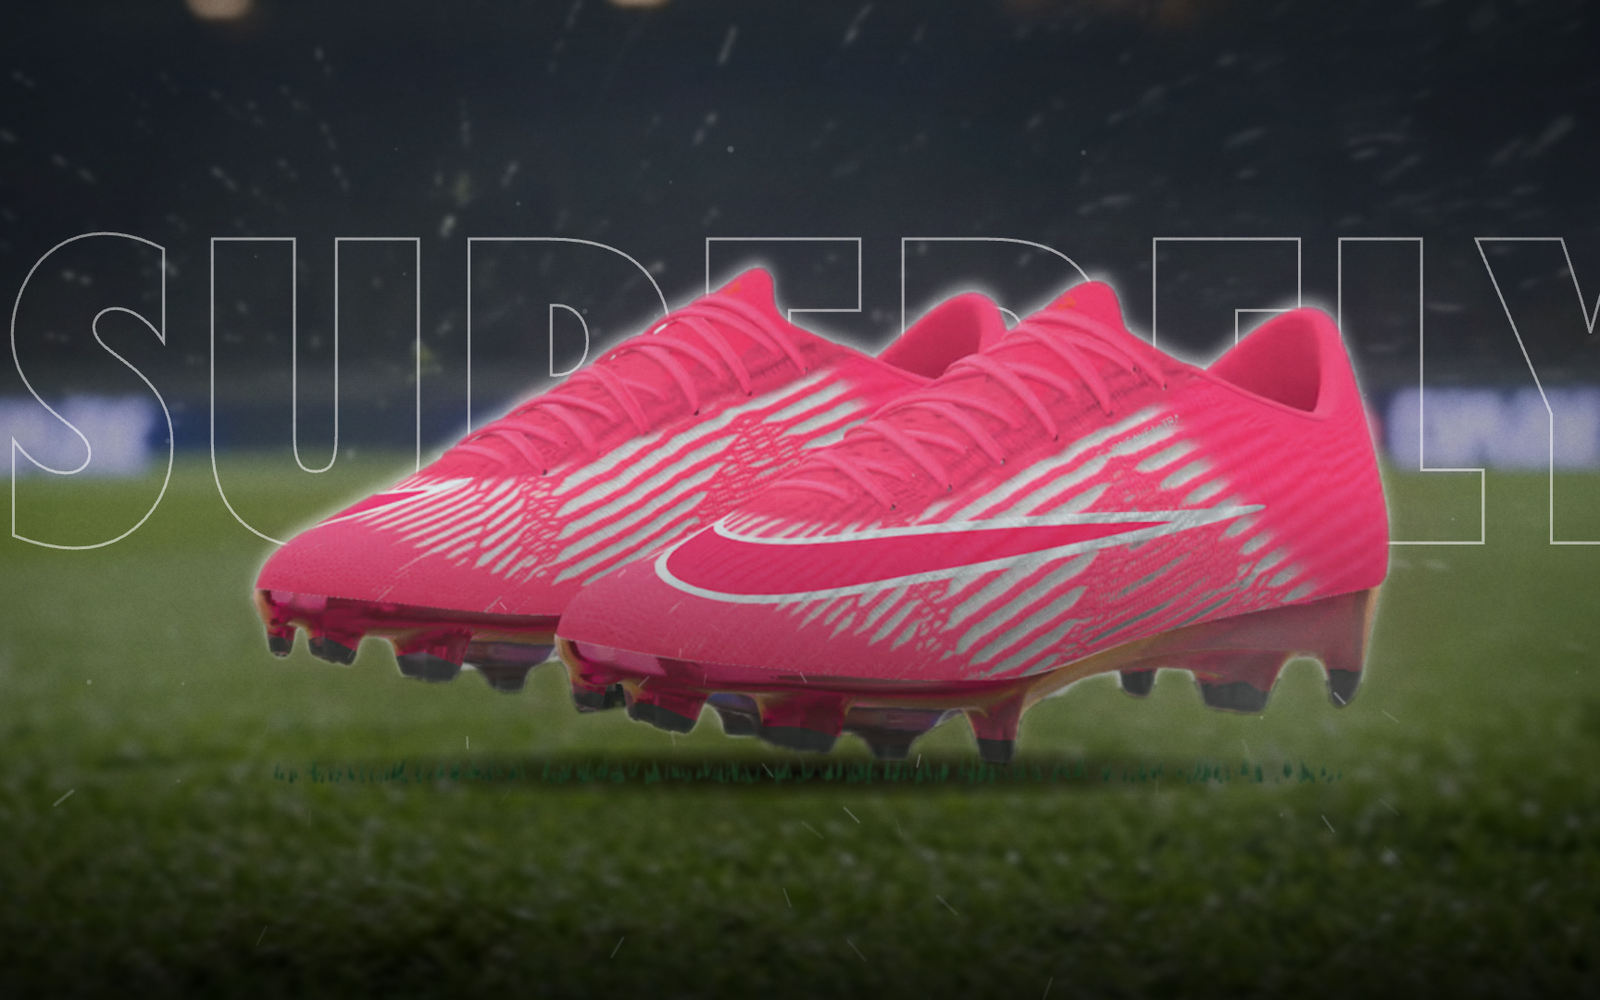
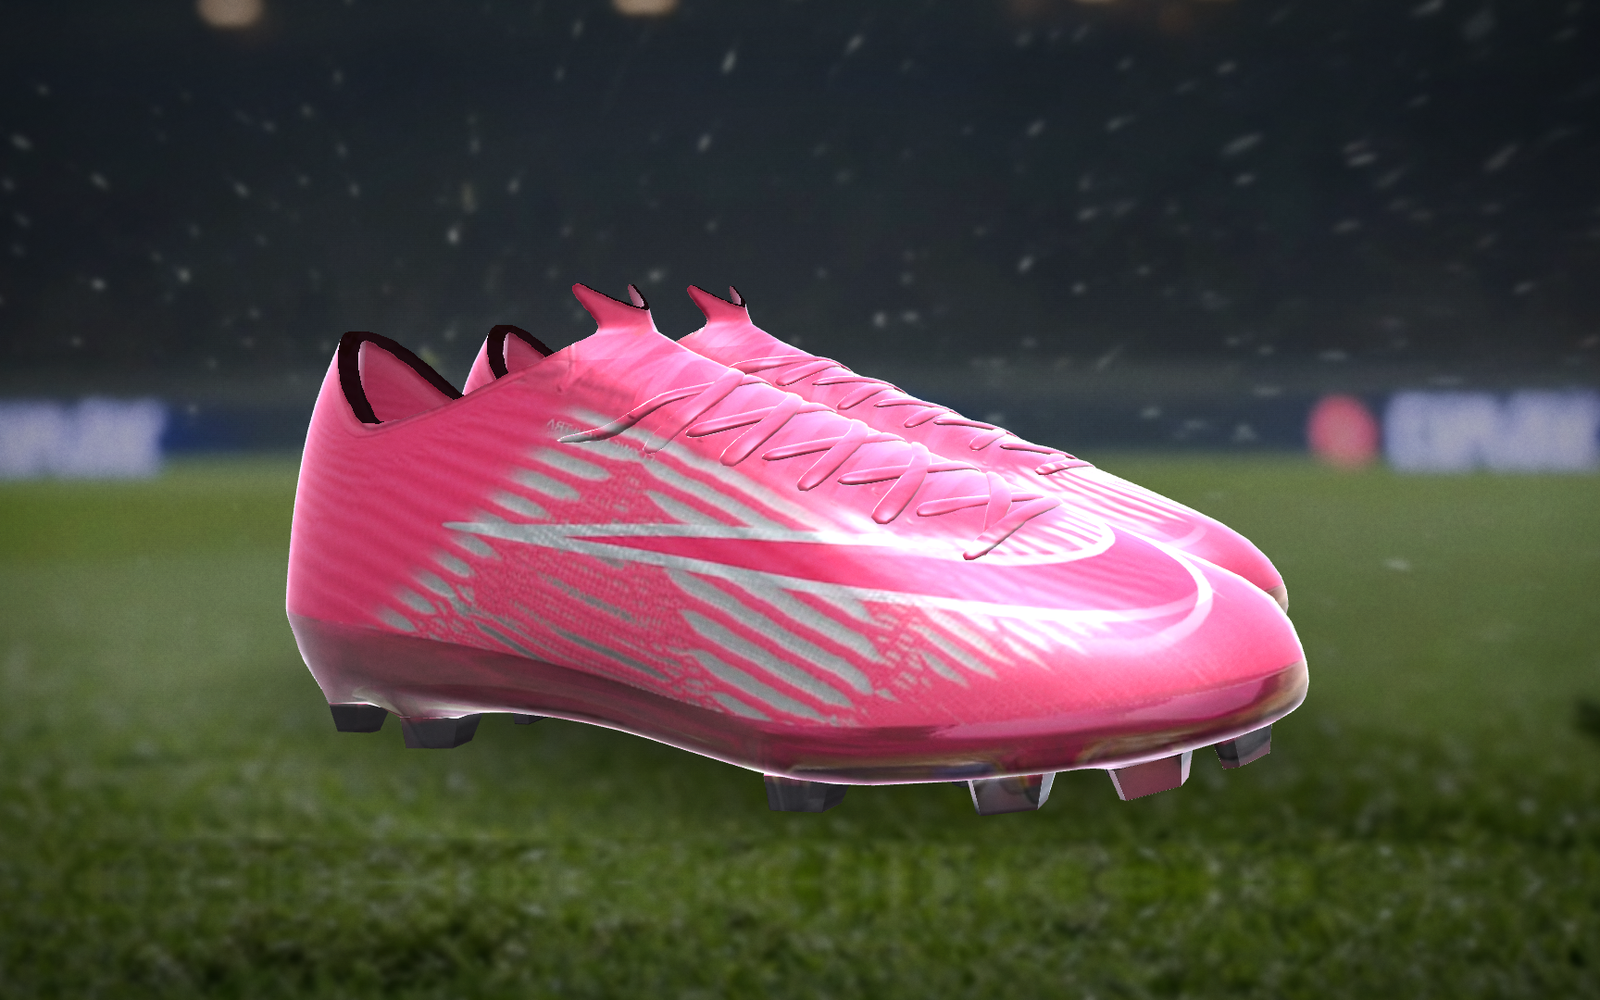
Met à jour la fiche de la pub Nike IA : miniature 3D et description
Miniature tirée de la nouvelle version (la paire 3D sous les projecteurs).
La description précise que le modèle 3D vient de Sketchfab (« Nike
Mercurial Superfly V » par inakiromero, CC BY 4.0) et que sa texture a été
changée avec les vraies photos Nike By You. Étiquette 3D ajoutée.

diff --git a/projets.html b/projets.html
@@ -326,12 +326,12 @@
           </article>
 
           <!-- PRODUCTION AUDIO & VIDÉO : pub Nike Mercurial, version IA (plans Kling + montage Remotion, MP4 hébergé sur le site) -->
-          <article class="project-card reveal stagger-1" data-category="video" data-ue="ue13" tabindex="0" data-project-img="assets/img/projet-nike-mercurial.webp" data-project-title="Pub Nike Mercurial By You : IA &amp; Motion Design" data-project-tags="IA générative (Kling),Motion design,Remotion,Production audio &amp; vidéo" data-project-desc="Publicité conceptuelle (spec ad) de 31 secondes pour la Nike Mercurial Superfly 11 Elite By You, dans un coloris rose personnalisé. Les plans « réels » (tunnel, projecteurs, sprint, frappe, ballon dans le ciel) sont générés avec l'IA Kling à partir d'une photo de la chaussure, puis montés et animés avec Remotion (React + TypeScript) avec les vraies photos du configurateur Nike By You, la typographie et le carton final. Montage calé au temps près sur une instrumentale libre de droits : chaque coupe et chaque mot tombent sur le beat, la frappe sur le drop, et la traînée de fumée du ballon, suivie image par image, se transforme en swoosh. Sound design plan par plan : crampons, projecteurs, frappe de balle, foule de stade. Projet étudiant, sans lien avec Nike." data-project-video="assets/video/nike-mercurial-by-you-ia.mp4">
-            <div class="project-card__image"><img src="assets/img/projet-nike-mercurial.webp" alt="Paire de Nike Mercurial Superfly roses sur la pelouse d'un stade de nuit, extrait de la pub" loading="lazy"></div>
+          <article class="project-card reveal stagger-1" data-category="video" data-ue="ue13" tabindex="0" data-project-img="assets/img/projet-nike-mercurial.webp" data-project-title="Pub Nike Mercurial By You : IA &amp; Motion Design" data-project-tags="IA générative (Kling),3D (Sketchfab + Three.js),Motion design,Remotion,Production audio &amp; vidéo" data-project-desc="Publicité conceptuelle (spec ad) de 31 secondes pour la Nike Mercurial Superfly 11 Elite By You, dans un coloris rose personnalisé. Les plans « réels » (tunnel, sprint, frappe, ballon dans le ciel) sont générés avec l'IA Kling à partir d'une photo de la chaussure. La paire en 3D (projecteurs, plan héros, configurateur By You) vient d'un modèle 3D récupéré sur Sketchfab (« Nike Mercurial Superfly V » par inakiromero, licence CC BY 4.0), dont la texture a ensuite été changée : les vraies photos du configurateur Nike By You sont projetées sur le modèle, rendu avec Three.js. Le tout est monté et animé avec Remotion (React + TypeScript), avec les gros plans sur les vraies photos, la typographie et le carton final. Montage calé au temps près sur une instrumentale libre de droits : chaque coupe et chaque mot tombent sur le beat, la frappe sur le drop, et la traînée de fumée du ballon, suivie image par image, se transforme en swoosh. Sound design plan par plan : crampons, projecteurs, frappe de balle, foule de stade. Projet étudiant, sans lien avec Nike." data-project-video="assets/video/nike-mercurial-by-you-ia.mp4">
+            <div class="project-card__image"><img src="assets/img/projet-nike-mercurial.webp" alt="Paire de Nike Mercurial Superfly roses en 3D sur la pelouse d'un stade de nuit, extrait de la pub" loading="lazy"></div>
             <div class="project-card__body">
               <div class="project-card__tags"><span class="tag tag--video">Audio &amp; Vidéo</span><span class="tag tag--secondary">IA + Remotion</span></div>
               <h3 class="project-card__title">Pub Nike Mercurial By You : IA &amp; Motion Design</h3>
-              <p class="project-card__desc">Spec ad de 31 s : plans générés avec Kling, vraies photos produit, montage sur le beat et sound design plan par plan.</p>
+              <p class="project-card__desc">Spec ad de 31 s : plans générés avec Kling, modèle 3D retexturé avec les vraies photos, montage sur le beat et sound design plan par plan.</p>
               <button class="project-card__link" type="button">Voir le projet <svg width="16" height="16" viewBox="0 0 24 24" fill="none" stroke="currentColor" stroke-width="2" stroke-linecap="round" aria-hidden="true"><line x1="5" y1="12" x2="19" y2="12"/><polyline points="12 5 19 12 12 19"/></svg></button>
             </div>
           </article>
